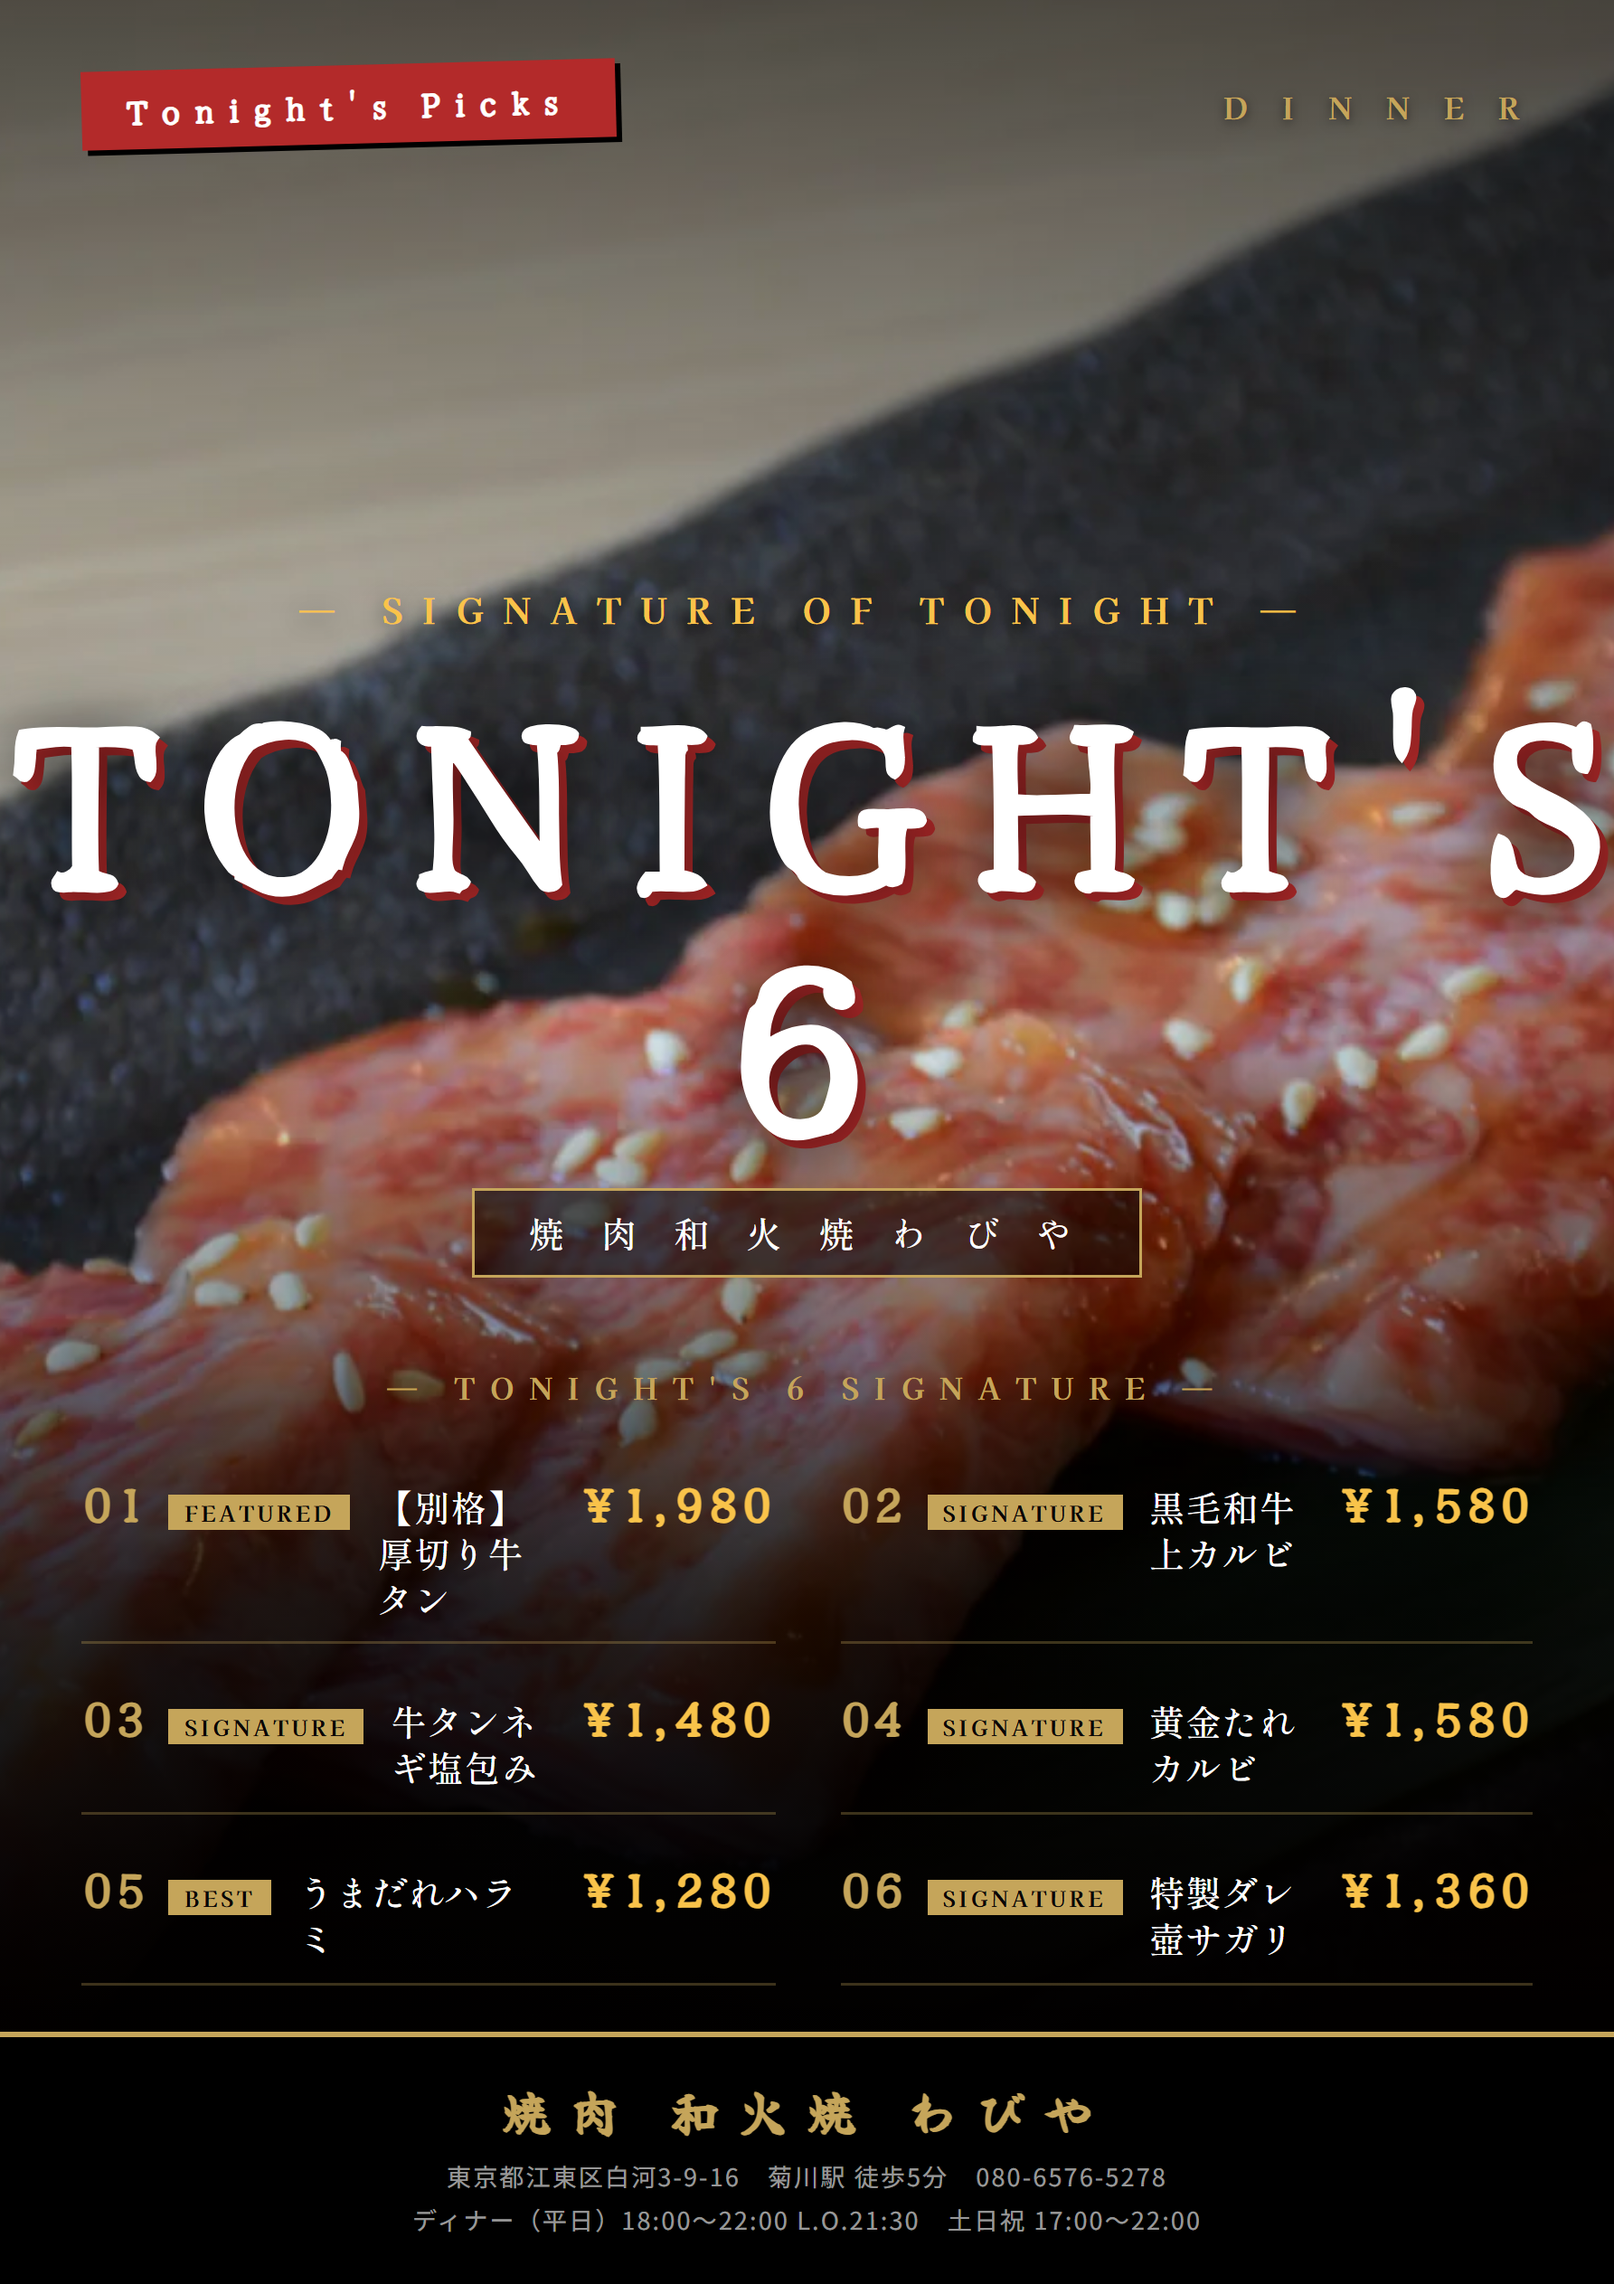
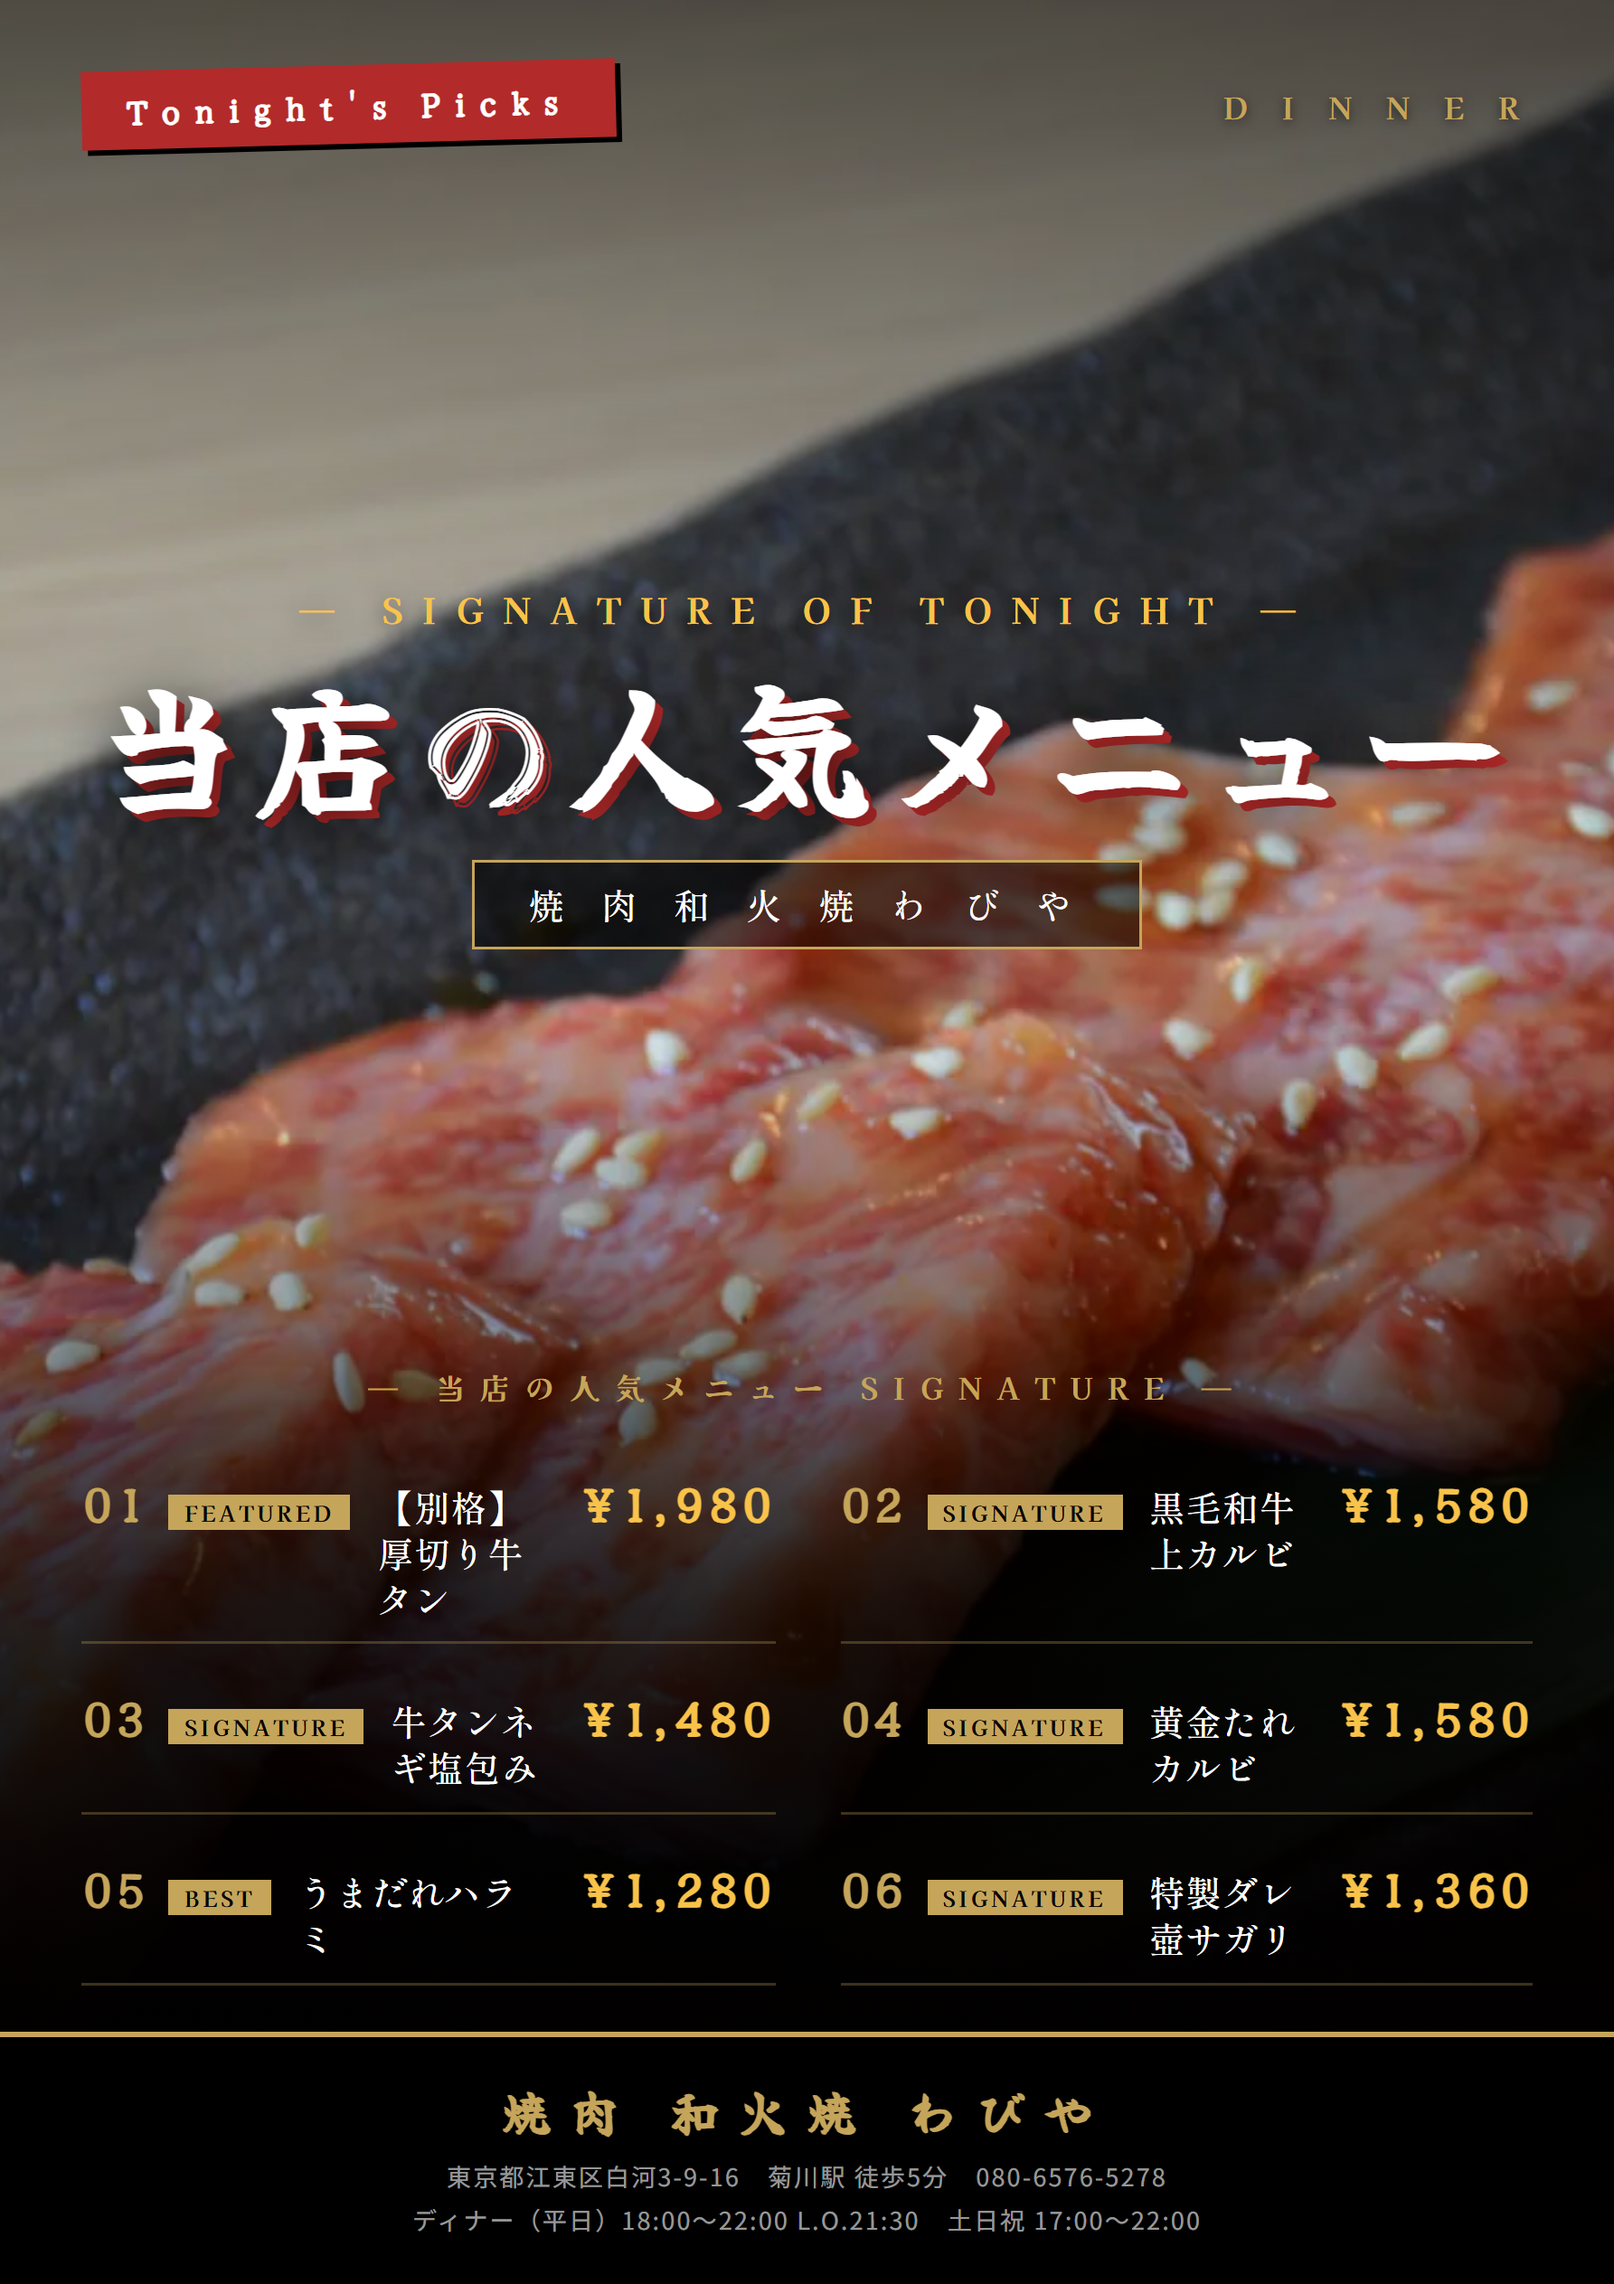
ディナーおすすめA4 v10-v19 文言更新「Today's SIX」→「当店の人気メニュー」
メインタイトルを「当店の人気メニュー」に統一。
v10/v11/v14のフォントサイズを文字数増加に合わせて調整して
レイアウト崩れを解消。

Changed region(s): [[0.0, 0.2779, 1.0, 0.6176]]

diff --git a/posters/menu-recommended-dinner-v11.html b/posters/menu-recommended-dinner-v11.html
@@ -15,7 +15,7 @@ body{display:flex;justify-content:center;align-items:center;min-height:100vh;bac
 /* 中央タイトル */
 .center-title{position:absolute;left:0;right:0;top:215px;text-align:center;z-index:4}
 .center-title .small{font-family:'Kaisei Tokumin',serif;font-size:13px;letter-spacing:0.55em;color:#f9c34a;font-weight:700;margin-bottom:10px;text-shadow:0 2px 8px rgba(0,0,0,0.7)}
-.center-title h1{font-family:'Yuji Syuku','Shippori Mincho',serif;font-size:90px;font-weight:800;letter-spacing:0.08em;line-height:1;color:#fff;text-shadow:0 4px 24px rgba(0,0,0,0.9),3px 3px 0 #b32a2a}
+.center-title h1{font-family:'Yuji Syuku','Shippori Mincho',serif;font-size:54px;font-weight:800;letter-spacing:0.08em;line-height:1.1;color:#fff;text-shadow:0 4px 24px rgba(0,0,0,0.9),3px 3px 0 #b32a2a}
 .center-title .ribbon{display:inline-block;background:rgba(0,0,0,0.55);color:#fff;padding:6px 20px;margin-top:14px;font-family:'Shippori Mincho',serif;font-size:13px;letter-spacing:0.4em;border:1px solid #c5a55a}
 /* 6品リスト（下部、半透明オーバーレイ） */
 .menu-area{position:absolute;left:0;right:0;bottom:0;padding:16px 30px 110px;background:linear-gradient(to top,rgba(0,0,0,0.92),rgba(0,0,0,0.5) 70%,transparent 100%);z-index:4}
@@ -40,11 +40,11 @@ body{display:flex;justify-content:center;align-items:center;min-height:100vh;bac
 </div>
 <div class="center-title">
 <div class="small">— SIGNATURE OF TONIGHT —</div>
-<h1>TONIGHT'S 6</h1>
+<h1>当店の人気メニュー</h1>
 <div class="ribbon">焼 肉  和 火 焼  わ び や</div>
 </div>
 <div class="menu-area">
-<div class="menu-label">— TONIGHT'S 6 SIGNATURE —</div>
+<div class="menu-label">— 当店の人気メニュー SIGNATURE —</div>
 <div class="menu-grid">
 <div class="mitem"><span class="num">01</span><span class="badge">FEATURED</span><span class="name">【別格】厚切り牛タン</span><span class="price">¥1,980</span></div>
 <div class="mitem"><span class="num">02</span><span class="badge">SIGNATURE</span><span class="name">黒毛和牛 上カルビ</span><span class="price">¥1,580</span></div>

diff --git a/posters/menu-recommended-dinner-v10.html b/posters/menu-recommended-dinner-v10.html
@@ -21,7 +21,7 @@ body{display:flex;justify-content:center;align-items:center;min-height:100vh;bac
 /* 右上のキャッチ＆タイトル */
 .right-top{position:absolute;top:60px;right:24px;width:170px;text-align:center;z-index:4}
 .right-top .copy{font-family:'Yuji Syuku','Shippori Mincho',serif;font-size:13px;color:#c5a55a;letter-spacing:0.15em;line-height:1.6;font-weight:700;margin-bottom:14px}
-.right-top h1{font-family:'Yuji Syuku','Shippori Mincho',serif;font-size:60px;font-weight:800;line-height:1;letter-spacing:0.08em;color:#fff;writing-mode:vertical-rl;margin:0 auto;text-shadow:1px 1px 0 #b32a2a,3px 3px 0 rgba(0,0,0,0.4)}
+.right-top h1{font-family:'Yuji Syuku','Shippori Mincho',serif;font-size:26px;font-weight:800;line-height:1.4;letter-spacing:0.05em;color:#fff;writing-mode:vertical-rl;margin:0 auto;text-shadow:1px 1px 0 #b32a2a,2px 2px 0 rgba(0,0,0,0.4)}
 .right-top h1 .em{color:#c5a55a}
 /* 下部 5品グリッド（5列×1行） */
 .subline{position:absolute;left:24px;right:24px;top:435px;text-align:center;z-index:3}
@@ -53,7 +53,7 @@ body{display:flex;justify-content:center;align-items:center;min-height:100vh;bac
 </div>
 <div class="right-top">
 <div class="copy">極厚に切った<br>とろける牛タン</div>
-<h1>Today's<span class="em">SIX</span></h1>
+<h1>当店の<span class="em">人気メニュー</span></h1>
 </div>
 <div class="subline"><span class="label">— OTHER 5 SIGNATURE —</span></div>
 <div class="sub-grid">

diff --git a/posters/menu-recommended-dinner-v14.html b/posters/menu-recommended-dinner-v14.html
@@ -14,7 +14,7 @@ body{display:flex;justify-content:center;align-items:center;min-height:100vh;bac
 .htop .meta{font-family:'Kaisei Tokumin',serif;font-size:11px;letter-spacing:0.45em;color:#c5a55a}
 .hbottom{color:#fff;text-align:center}
 .hbottom .small{font-family:'Kaisei Tokumin',serif;font-size:13px;letter-spacing:0.55em;color:#c5a55a;margin-bottom:8px;font-weight:700}
-.hbottom h1{font-family:'Yuji Syuku','Shippori Mincho',serif;font-size:62px;font-weight:800;letter-spacing:0.06em;line-height:1;margin-bottom:8px;text-shadow:0 4px 24px rgba(0,0,0,0.85)}
+.hbottom h1{font-family:'Yuji Syuku','Shippori Mincho',serif;font-size:42px;font-weight:800;letter-spacing:0.06em;line-height:1.1;margin-bottom:8px;text-shadow:0 4px 24px rgba(0,0,0,0.85)}
 .hbottom h1 .em{color:#c5a55a}
 .hbottom .sub{font-family:'Shippori Mincho',serif;font-size:11px;letter-spacing:0.4em;color:rgba(255,255,255,0.75)}
 /* セクションタイトル */
@@ -42,7 +42,7 @@ body{display:flex;justify-content:center;align-items:center;min-height:100vh;bac
 <div class="htop"><span class="pill">Tonight's Picks</span><span class="meta">DINNER · 2026.04</span></div>
 <div class="hbottom">
 <div class="small">— TONIGHT'S SIGNATURE —</div>
-<h1>Today's <span class="em">SIX</span></h1>
+<h1>当店の<span class="em">人気メニュー</span></h1>
 <div class="sub">焼 肉 和 火 焼  わ び や</div>
 </div>
 </div>

diff --git a/posters/menu-recommended-dinner-v19.html b/posters/menu-recommended-dinner-v19.html
@@ -48,7 +48,7 @@ body{display:flex;justify-content:center;align-items:center;min-height:100vh;bac
 </style></head><body>
 <div class="poster">
 <div class="head">
-<div class="l"><span class="pill">Tonight's Picks</span><h1>Today's <span class="em">SIX</span></h1></div>
+<div class="l"><span class="pill">Tonight's Picks</span><h1>当店の<span class="em">人気メニュー</span></h1></div>
 <span class="meta">DINNER · 2026.04</span>
 </div>
 <div class="fullgrid">

diff --git a/posters/menu-recommended-dinner-v15.html b/posters/menu-recommended-dinner-v15.html
@@ -41,7 +41,7 @@ body{display:flex;justify-content:center;align-items:center;min-height:100vh;bac
 </style></head><body>
 <div class="poster">
 <div class="head">
-<div class="l"><span class="pill">Tonight's Picks</span><h1>Today's <span class="em">SIX</span></h1></div>
+<div class="l"><span class="pill">Tonight's Picks</span><h1>当店の<span class="em">人気メニュー</span></h1></div>
 <span class="meta">DINNER · 2026.04</span>
 </div>
 <div class="half">

diff --git a/posters/menu-recommended-dinner-v17.html b/posters/menu-recommended-dinner-v17.html
@@ -37,7 +37,7 @@ body{display:flex;justify-content:center;align-items:center;min-height:100vh;bac
 </style></head><body>
 <div class="poster">
 <div class="head">
-<div class="l"><span class="pill">Tonight's Picks</span><h1>Today's <span class="em">SIX</span></h1></div>
+<div class="l"><span class="pill">Tonight's Picks</span><h1>当店の<span class="em">人気メニュー</span></h1></div>
 <span class="meta">DINNER · 2026.04</span>
 </div>
 <div class="rows">

diff --git a/posters/menu-recommended-dinner-v13.html b/posters/menu-recommended-dinner-v13.html
@@ -52,7 +52,7 @@ body{display:flex;justify-content:center;align-items:center;min-height:100vh;bac
 <div class="poster">
 <div class="mast">
 <span class="label">Tonight's Picks</span>
-<h1>Today's<span class="em">SIX</span></h1>
+<h1>当店の<span class="em">人気メニュー</span></h1>
 <div class="sub">焼 肉  和 火 焼  わ び や  /  D I N N E R</div>
 </div>
 <div class="row feature">

diff --git a/posters/menu-recommended-dinner-v12.html b/posters/menu-recommended-dinner-v12.html
@@ -33,7 +33,7 @@ body{display:flex;justify-content:center;align-items:center;min-height:100vh;bac
 <div class="poster">
 <div class="head">
 <span class="label">Tonight's Picks</span>
-<h1>Today's<span class="em">SIX</span></h1>
+<h1>当店の<span class="em">人気メニュー</span></h1>
 <div class="sub">焼 肉  和 火 焼  わ び や  /  D I N N E R</div>
 </div>
 <div class="grid">

diff --git a/posters/menu-recommended-dinner-v16.html b/posters/menu-recommended-dinner-v16.html
@@ -43,7 +43,7 @@ body{display:flex;justify-content:center;align-items:center;min-height:100vh;bac
 <div class="poster">
 <div class="head">
 <span class="pill">Tonight's Picks</span>
-<h1>Today's <span class="em">SIX</span></h1>
+<h1>当店の<span class="em">人気メニュー</span></h1>
 <div class="sub">焼 肉  和 火 焼  わ び や  /  D I N N E R</div>
 </div>
 <div class="top2">
